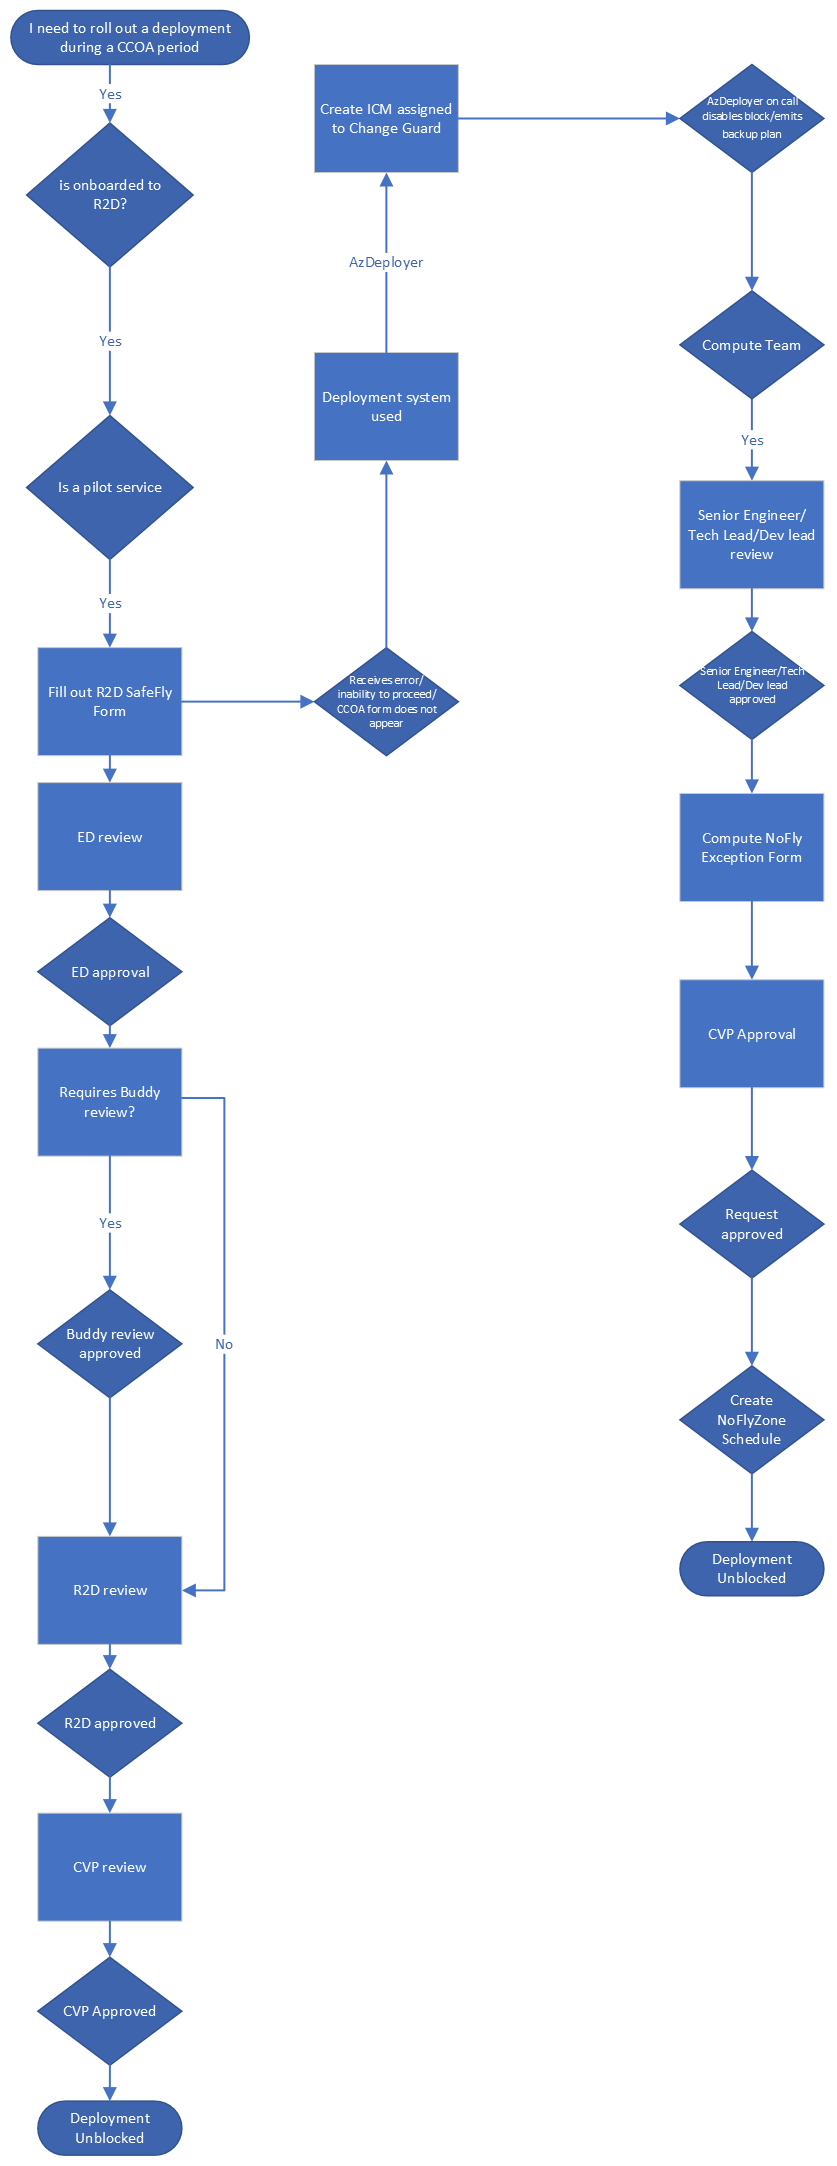
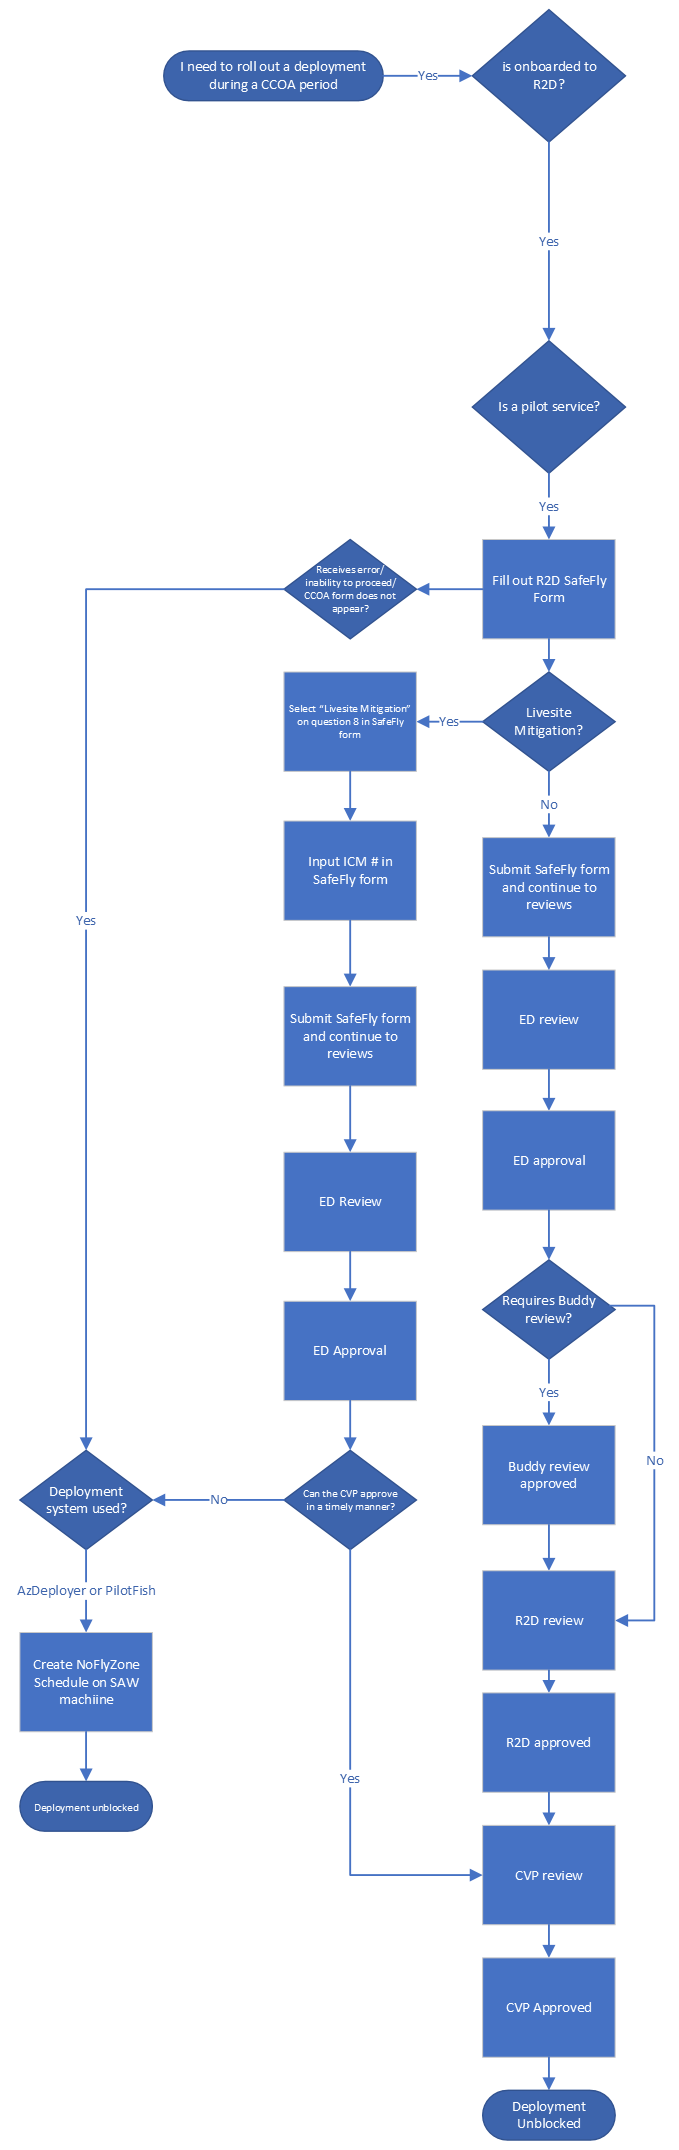
updated CCOA docs

diff --git a/enghub/SafeFlyCCOAExceptions/CCOAinSafeFlyOverview.md b/enghub/SafeFlyCCOAExceptions/CCOAinSafeFlyOverview.md
@@ -7,11 +7,11 @@ To find out more about CCOAs, please visit https://aka.ms/ccoa. You will also fi
 
 ## SafeFly CCOA Initiative
 
-Depending on the service, CCOA exception requests had to be submitted either through either Change Guard or AzDeployer. However starting on November 17th, 2023, select services will be able to now submit their exception requests through SafeFly for the 2023 Black Friday CCOA. 
+Depending on the service, CCOA exception requests had to be submitted either through either Change Guard or AzDeployer. However starting on **November 29th, 2023**, select services will be able to now submit their CCOA exception requests through SafeFly for the **2023 December Holidays CCOA**. 
 
-Before enabling the CCOA feature in SafeFly, services already onboarded to [Ready to Deploy (R2D)](https://eng.ms/docs/more/sre/engagements/r2d/readme) were heavily encouraged to participate in the process before proceeding with submitting a CCOA exception request. This required services to navigate to SafeFly - which has R2D built into the interface, input their deployment information, proceed with R2D reviews, and then navigate to Change Guard or AzDeployer to submit the actual exception request. Now, the process has been combined into one interface allowing services to submit their CCOA exception requests directly into SafeFly, proceed with R2D review, acquire the needed approvals. Once the deployment has been approved, SafeFly will unblock the deployment and the service will be able to proceed with the rollout.
+Before enabling the CCOA feature in SafeFly, services already onboarded to [Ready to Deploy (R2D)](https://eng.ms/docs/more/sre/engagements/r2d/readme) were heavily encouraged to participate in the process before proceeding with submitting a CCOA exception request. This required services to navigate to SafeFly - which has R2D built into the interface, input their deployment information, proceed with R2D reviews, and then navigate to Change Guard, AzDeployer or PilotFish to submit the actual exception request. Now, the process has been combined into one interface allowing services to submit their CCOA exception requests directly into SafeFly, proceed with R2D review and acquire the needed approvals. Once the deployment has been approved, SafeFly will unblock the deployment and the service will be able to proceed with the rollout.
 
-However, this feature will only be enabled for a select number of services for the 2023 Black Friday CCOA. See below for guidence on the tools to use for submitting CCOA exception requests.
+However, this feature will only be enabled for a select number of services for the 2023 December Holidays CCOA. See below for guidance on the tools to use for submitting CCOA exception requests.
 
 ### Services in Scope
 
@@ -24,7 +24,7 @@ For a full list of pilot services who will submit CCOA exception requests in Saf
 | SDP TOOL | Quality Critical Service (QCS)? | Onboarded to R2D | Appear in Pilot Services List | Exception Process |
 |:-----|:-----|:-----|:-----|:-----|
 | EV2 | Yes<br><br><br>Yes<br><br><br>Yes<br><br><br>No | Yes<br><br><br>Yes<br><br><br>No<br><br><br>No | Yes<br><br><br>No<br><br><br>No<br><br><br>No   | Submit CCOA requests in SafeFly<br><br>Submit SafeFly request, proceed with approvals and R2D review in SafeFly, submit CCOA exception request in Change Guard<br><br>Submit CCOA exception request in Change Guard<br><br>Submit CCOA exception request in Change Guard |
-|AZDeployer<br>ApStager<br>PilotFish|Yes<br><br><br>Yes<br><br><br>Yes<br><br><br>No | Yes<br><br><br>Yes<br><br><br>No<br><br><br>No | Yes<br><br><br>No<br><br><br>No<br><br><br>No   | Submit CCOA requests in SafeFly<br><br>Submit SafeFly request, proceed with approvals and R2D review in SafeFly, submit CCOA exception request following [NoFlyZone](https://msazure.visualstudio.com/AzureWiki/_wiki/wikis/AzureWiki.wiki/3335/Platform-NoFlyZone-Scheduling) guidence<br><br>Submit CCOA exception request following [NoFlyZone](https://msazure.visualstudio.com/AzureWiki/_wiki/wikis/AzureWiki.wiki/3335/Platform-NoFlyZone-Scheduling) guidence<br><br>Submit CCOA exception request following [NoFlyZone](https://msazure.visualstudio.com/AzureWiki/_wiki/wikis/AzureWiki.wiki/3335/Platform-NoFlyZone-Scheduling) guidence |
+|AZDeployer<br>ApStager<br>PilotFish|Yes<br><br><br>Yes<br><br><br>Yes<br><br><br>No | Yes<br><br><br>Yes<br><br><br>No<br><br><br>No | Yes<br><br><br>No<br><br><br>No<br><br><br>No   | Submit CCOA requests in SafeFly<br><br>Submit SafeFly request, proceed with approvals and R2D review in SafeFly, submit CCOA exception request following [NoFlyZone](https://msazure.visualstudio.com/AzureWiki/_wiki/wikis/AzureWiki.wiki/3335/Platform-NoFlyZone-Scheduling) guidance<br><br>Submit CCOA exception request following [NoFlyZone](https://msazure.visualstudio.com/AzureWiki/_wiki/wikis/AzureWiki.wiki/3335/Platform-NoFlyZone-Scheduling) guidance<br><br>Submit CCOA exception request following [NoFlyZone](https://msazure.visualstudio.com/AzureWiki/_wiki/wikis/AzureWiki.wiki/3335/Platform-NoFlyZone-Scheduling) guidance |
 
 #### All-Up User E2E experience
 
@@ -38,6 +38,7 @@ For a full list of pilot services who will submit CCOA exception requests in Saf
 |Submitting CCOA Exception Requests for Pilot Services|[CCOA Requests for Pilot](https://eng.ms/docs/products/fcm-engineering-hub/SafeFlyCCOAExceptions/PilotServices/SubmittingCCOARequestsPilot)|
 | Bypassing R2D Approval| [Bypassing R2D Approval](https://eng.ms/docs/products/fcm-engineering-hub/SafeFlyCCOAExceptions/PilotServices/BypassingR2D)
 | Submitting CCOA Requests for R2D Ev2 Services (Non-Pilot)| [CCOA Requests for R2D Ev2](https://eng.ms/docs/products/fcm-engineering-hub/SafeFlyCCOAExceptions/R2DnonPilotEv2)|
+| Submitting CCOA Requests for R2D AzDeployer/PilotFish/ApStager Services (Non-Pilot)| [CCOA Requests for R2D Ev2](https://eng.ms/docs/products/fcm-engineering-hub/SafeFlyCCOAExceptions/R2DnonPilotAzD)|
 
 #### Quick Links
 |Links|

diff --git a/enghub/SafeFlyCCOAExceptions/R2DnonPilotAzD.md b/enghub/SafeFlyCCOAExceptions/R2DnonPilotAzD.md
@@ -1,0 +1,42 @@
+# Services who use AzDeployer, PilotFish, or ApStager as a deployment system, are onboarded to R2D (Non-Pilot)
+
+If your service uses AzDeployer, PilotFish, or ApStager as a deployment system, is onboarded to R2D and does not appear in the [Pilot Services](https://eng.ms/docs/products/fcm-engineering-hub/SafeFlyCCOAExceptions/PilotServices/SubmittingCCOARequests) list, this page will provide guidence for submitting CCOA Exception requests.
+
+## Step 1: Complete R2D review
+
+The first step is for the service to submit an R2D request in SafeFly. They will have to navigate to SafeFly and complete the questionnaire. 
+
+![alt text](media/SF_1.png)
+
+Once the form is submitted, the user will be routed to their request where it will show the reviews they need to complete along with the progress of the reviews. The review process is as follows: 
+
+1.	Automatic reviews: occurs immediately and provides a calculated risk, deployment impact, etc.
+2.	Service Manager Reviews: this is conditional and is dependent on the service itself
+3.	Engineering director reviews
+4.	Buddy Reviews: this is conditional and is dependent on the service itself
+5.	R2D team reviews: user will need to schedule a meeting with the R2D team
+    - Meeting Times:
+        - Morning R2D Review: Daily 8:35AM - 9:30AM PT
+        - Evening R2D Reviews: Mon/Thu 1:30PM - 2:00PM PT, or as needed we can set up if its high priority deployment request and needs review.
+    - What to expect in R2D discussions
+        - Safefly request must be “ED (Engineering Director) approved” prior to bringing in R2D pre-deploy forum.
+        - Know your payload, engage others in review meetings to provide inputs, as needed.
+        - Engineering Managers (Principal +) are required to be part of the R2D review discussions for the service deployment request.
+        - Expect R2D council to be actively engaged and learn more about payload risks and quality validation completed to ensure change is safe and avoid shipping bad code to production regions.
+        - Ensure the team has information on pending and ongoing repairs corresponding to improving deployment stature for the service (Test/Release, Detection etc.)
+6. CVP Reviews
+    - If R2D review rejects the request, the CVP still has the ability to overrule the decision and user will be able to proceed with deployment
+    - If R2D approves, CVP can reject request
+7.	Once all approvals have been met, the deployment will be unblocked and the user will be able to proceed with rolling out their deployment
+
+![alt text](media/SF_4.png)
+
+## Bypass NoFlyZone Schedule
+
+After the request is approved by R2D, the user will then create a NoFlyZone Set-SchedulesException on their SAW machine. 
+
+Detailed information can be found here: [NoFlyZone Schedule](https://msazure.visualstudio.com/AzureWiki/_wiki/wikis/AzureWiki.wiki/3335/Platform-NoFlyZone-Scheduling?anchor=1.-how-to-bypass-noflyzone-schedule-for-critical-or-security-fixes). 
+
+API for the Set_SchedulesException can be found here: [API_Set_SchedulesException](https://msazure.visualstudio.com/AzureWiki/_wiki/wikis/AzureWiki.wiki/52501/API_Set_SchedulesException)
+
+![alt text](media/SF_14.png)

diff --git a/enghub/SafeFlyCCOAExceptions/R2DnonPilotEv2.md b/enghub/SafeFlyCCOAExceptions/R2DnonPilotEv2.md
@@ -1,12 +1,12 @@
 # Services who use Ev2 as a deployment system, are onboarded to R2D (Non-Pilot)
 
-If your services uses Ev2 as a deployment system, is onboarded to R2D and does not appear in the [Pilot Services](https://eng.ms/docs/products/fcm-engineering-hub/SafeFlyCCOAExceptions/PilotServices/SubmittingCCOARequests) list, this page will provide guidence for submitting CCOA Exception requests.
+If your service uses Ev2 as a deployment system, is onboarded to R2D and does not appear in the [Pilot Services](https://eng.ms/docs/products/fcm-engineering-hub/SafeFlyCCOAExceptions/PilotServices/SubmittingCCOARequests) list, this page will provide guidence for submitting CCOA Exception requests.
 
 ## Step 1: Complete R2D review
 
 The first step is for the service to submit an R2D request in SafeFly. They will have to navigate to SafeFly and complete the questionnaire. 
 
-![alt text](media/NP_1.png)
+![alt text](media/SF_1.png)
 
 Once the form is submitted, the user will be routed to their request where it will show the reviews they need to complete along with the progress of the reviews. The review process is as follows: 
 
@@ -29,7 +29,7 @@ Once the form is submitted, the user will be routed to their request where it wi
     - If R2D approves, CVP can reject request
 7.	Once all approvals have been met, the deployment will be unblocked and the user will be able to proceed with rolling out their deployment
 
-![alt text](media/NP_2.png)
+![alt text](media/SF_4.png)
 
 After the request is approved by R2D, the user will then have to navigate back to Change Guard to submit their CCOA exception request. Ensure you have copied the link with the R2D review result in SafeFly. In the next section is a description of how to submit an Ev2 exception request in Change Guard. 
 

diff --git a/enghub/SafeFlyCCOAExceptions/PilotServices/SubmittingCCOARequestsPilot.md b/enghub/SafeFlyCCOAExceptions/PilotServices/SubmittingCCOARequestsPilot.md
@@ -1,6 +1,6 @@
 # Submitting CCOA Requests for Pilot Services
 
-![alt text](media/E2E_Pilot.png)
+<!--![alt text](media/E2E_Pilot.png)-->
 
 When submitting a CCOA exception, pilot services will navigate to the SafeFly home page and create a new request. During a CCOA period, a banner will be displayed at the top of the page indicating that there is a CCOA in effect along with a link to the CCOA documentation.  
 
@@ -14,7 +14,7 @@ The form will be automatically populated with the CCOA event that the exception 
 
 ![alt text](media/SF_3.png)
 
-If the deployment is a Livesite Mitigation, the user will be asked to input an ICM ID for Question 8. *Note: this will bypass R2D Review. See more details [here](https://eng.ms/docs/products/fcm-engineering-hub/SafeFlyCCOAExceptions/PilotServices/BypassingR2D)
+If the deployment is a Livesite Mitigation, the user will be asked to input an ICM ID for Question 8. *Note: this will bypass R2D Review. See more details* [here](https://eng.ms/docs/products/fcm-engineering-hub/SafeFlyCCOAExceptions/PilotServices/BypassingR2D)
 
 ![alt text](media/SF_8.png)
 

diff --git a/enghub/SafeFlyCCOAExceptions/PilotServices/PilotServices.md b/enghub/SafeFlyCCOAExceptions/PilotServices/PilotServices.md
@@ -10,6 +10,5 @@ To see if your service qualifies, refer to the table below of the Service Tree I
 |      bf4b5611-9f5e-4185-8701-6d0a4418d472  |     VnetAgent                                        |     Host Service (Below ARM)  |
 |      2b06ab6e-6c04-4655-ad59-0d774334a973  |     LSG Overlake                                     |     Host Service (Below ARM)  |
 |      7ecdbd40-fe6a-4d66-bb95-dab4ee9c8fce  |     Network Resource Provider                        |     Host Service (Below ARM)  |
-|      c2c299e4-1a8f-4e90-9c0a-934e5ea8fc66  |     Azure Database for PostgreSQL - Flexible Server  |     Ev2                       |
 |      c0edbb80-092f-4922-bf40-329b47c827db  |     ExpressRoute                                     |     Ev2                       |
 |      59fe8ab9-6707-4b3c-afb0-f5ed4214b531  |     Redis Cache                                      |     Ev2                       |
